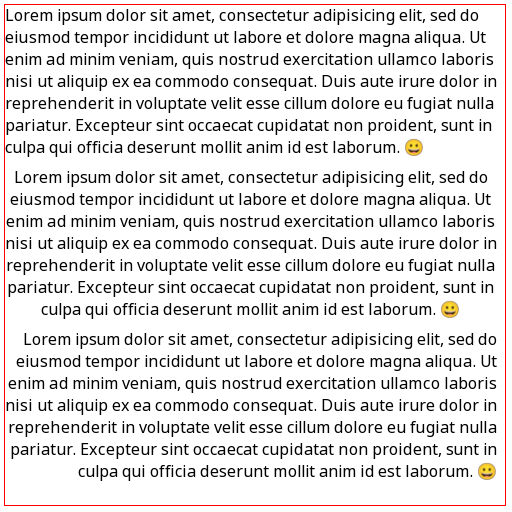
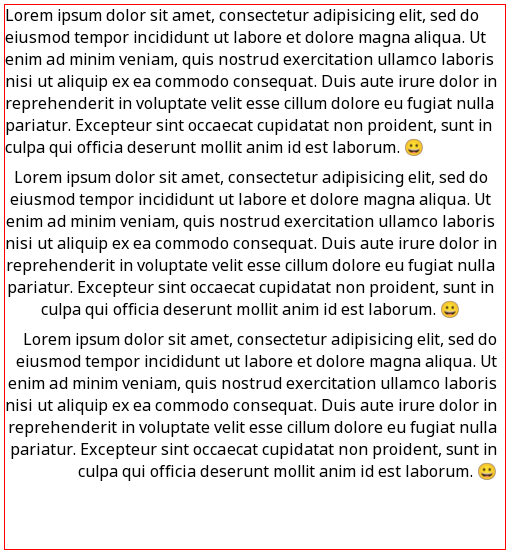
Some minor changes in TextLayout and LineWrap.

diff --git a/src/eepp/graphics/textlayout.cpp b/src/eepp/graphics/textlayout.cpp
@@ -309,7 +309,7 @@ TextLayout::Cache TextLayout::layout( const StringType& string, Font* font,
 							sg.position = pen;
 							sg.advance = { advance, 0 };
 							sg.direction = (TextDirection)segment.direction;
-							sg.script = (LangScript)segment.script;
+							sg.script = (LangScript)props.script;
 							result.shapedGlyphs.emplace_back( std::move( sg ) );
 
 							pen.x += advance;
@@ -334,7 +334,7 @@ TextLayout::Cache TextLayout::layout( const StringType& string, Font* font,
 						sg.stringIndex = segment.offset + run.pos() + glyphInfo[i].cluster;
 						sg.advance = { currentGlyph.advance, 0 };
 						sg.direction = (TextDirection)segment.direction;
-						sg.script = (LangScript)segment.script;
+						sg.script = (LangScript)props.script;
 						sg.position.x = pen.x + ( glyphPos[i].x_offset / 64.f );
 						sg.position.y = pen.y - ( glyphPos[i].y_offset / 64.f );
 						result.shapedGlyphs.emplace_back( std::move( sg ) );
@@ -375,7 +375,7 @@ TextLayout::Cache TextLayout::layout( const StringType& string, Font* font,
 							sg.stringIndex = segment.offset + run.pos() + cluster;
 							sg.advance = { advance, 0 };
 							sg.direction = (TextDirection)segment.direction;
-							sg.script = (LangScript)segment.script;
+							sg.script = (LangScript)props.script;
 							sg.position = pen;
 							result.shapedGlyphs.emplace_back( std::move( sg ) );
 
@@ -388,19 +388,21 @@ TextLayout::Cache TextLayout::layout( const StringType& string, Font* font,
 						sg.font = currentRunFont;
 						sg.glyphIndex = glyphInfo[i].codepoint;
 						sg.stringIndex = segment.offset + run.pos() + glyphInfo[i].cluster;
-						sg.advance = { glyphPos[i].x_advance / 64.f, glyphPos[i].y_advance / 64.f };
+						sg.advance = {
+							Font::isEmojiCodePoint( ch )
+								? currentRunFont
+									  ->getGlyphByIndex( glyphInfo[i].codepoint, characterSize,
+														 bold, italic, outlineThickness,
+														 rFont->getPage( characterSize ) )
+									  .advance
+								: glyphPos[i].x_advance / 64.f,
+							glyphPos[i].y_advance / 64.f };
 						sg.direction = (TextDirection)segment.direction;
-						sg.script = (LangScript)segment.script;
+						sg.script = (LangScript)props.script;
 						sg.position.x = std::round( pen.x + ( glyphPos[i].x_offset / 64.f ) );
 						sg.position.y = std::round( pen.y - ( glyphPos[i].y_offset / 64.f ) );
 						result.shapedGlyphs.emplace_back( std::move( sg ) );
-						pen.x += Font::isEmojiCodePoint( ch )
-									 ? currentRunFont
-										   ->getGlyphByIndex( glyphInfo[i].codepoint, characterSize,
-															  bold, italic, outlineThickness,
-															  rFont->getPage( characterSize ) )
-										   .advance
-									 : sg.advance.x;
+						pen.x += sg.advance.x;
 						pen.y += sg.advance.y;
 					}
 				}

diff --git a/include/eepp/graphics/linewrap.hpp b/include/eepp/graphics/linewrap.hpp
@@ -25,18 +25,26 @@ class EE_API LineWrap {
 
 	static std::string fromLineWrapType( LineWrapType type );
 
-	static LineWrapInfo
-	computeLineBreaks( const String::View& string, const FontStyleConfig& fontStyle, Float maxWidth,
-					   LineWrapMode mode, bool keepIndentation, Uint32 tabWidth = 4,
-					   Float whiteSpaceWidth = 0.f /* 0 = should calculate it */,
-					   Uint32 textHints = TextHints::None, bool tabStops = false,
-					   Float initialXOffset = 0.f );
+	static bool isWrapChar( String::StringBaseType ch );
 
 	static LineWrapInfo computeLineBreaks(
 		const String::View& string, Font* font, Uint32 characterSize, Float maxWidth,
 		LineWrapMode mode, Uint32 fontStyle, Float outlineThickness, bool keepIndentation,
 		Uint32 tabWidth = 4, Float whiteSpaceWidth = 0.f /* 0 = should calculate it */,
 		Uint32 textHints = TextHints::None, bool tabStops = false, Float initialXOffset = 0.f );
+
+	static LineWrapInfo computeLineBreaks(
+		const String& string, Font* font, Uint32 characterSize, Float maxWidth, LineWrapMode mode,
+		Uint32 fontStyle, Float outlineThickness, bool keepIndentation, Uint32 tabWidth = 4,
+		Float whiteSpaceWidth = 0.f /* 0 = should calculate it */,
+		Uint32 textHints = TextHints::None, bool tabStops = false, Float initialXOffset = 0.f );
+
+	static LineWrapInfo
+	computeLineBreaks( const String::View& string, const FontStyleConfig& fontStyle, Float maxWidth,
+					   LineWrapMode mode, bool keepIndentation, Uint32 tabWidth = 4,
+					   Float whiteSpaceWidth = 0.f /* 0 = should calculate it */,
+					   Uint32 textHints = TextHints::None, bool tabStops = false,
+					   Float initialXOffset = 0.f );
 
 	static LineWrapInfo computeLineBreaks( const String& string, const FontStyleConfig& fontStyle,
 										   Float maxWidth, LineWrapMode mode, bool keepIndentation,

diff --git a/src/eepp/graphics/linewrap.cpp b/src/eepp/graphics/linewrap.cpp
@@ -128,7 +128,7 @@ LineWrapInfo LineWrap::computeLineBreaks( const String::View& string, Font* font
 				xoffset = w + info.paddingStart;
 			}
 			lastSpace = 0;
-		} else if ( curChar == ' ' || curChar == '.' || curChar == '-' || curChar == ',' ) {
+		} else if ( isWrapChar( curChar ) ) {
 			lastSpace = idx;
 			lastWidth = xoffset;
 		}
@@ -137,6 +137,22 @@ LineWrapInfo LineWrap::computeLineBreaks( const String::View& string, Font* font
 	}
 
 	return info;
+}
+
+bool LineWrap::isWrapChar( String::StringBaseType ch ) {
+	return ch == ' ' || ch == '.' || ch == '-' || ch == ',';
+}
+
+LineWrapInfo LineWrap::computeLineBreaks( const String& string, Font* font, Uint32 characterSize,
+										  Float maxWidth, LineWrapMode mode, Uint32 fontStyle,
+										  Float outlineThickness, bool keepIndentation,
+										  Uint32 tabWidth,
+										  Float whiteSpaceWidth /* 0 = should calculate it */,
+										  Uint32 textDrawHints, bool tabStops,
+										  Float initialXOffset ) {
+	return computeLineBreaks( string.view(), font, characterSize, maxWidth, mode, fontStyle,
+							  outlineThickness, keepIndentation, tabWidth, whiteSpaceWidth,
+							  textDrawHints, tabStops, initialXOffset );
 }
 
 LineWrapInfo LineWrap::computeLineBreaks( const String::View& string,

diff --git a/src/tests/unit_tests/fontrendering.cpp b/src/tests/unit_tests/fontrendering.cpp
@@ -834,7 +834,7 @@ UTEST( FontRendering, TextWrap ) {
 
 	const auto runTest = [&]() {
 		UIApplication app(
-			WindowSettings( 512, 512, "eepp - Text Wrap", WindowStyle::Default,
+			WindowSettings( 512, 555, "eepp - Text Wrap", WindowStyle::Default,
 							WindowBackend::Default, 32, {}, 1, false, true ),
 			UIApplication::Settings( Sys::getProcessPath() + ".." + FileSystem::getOSSlash(), 1 ) );
 		FileSystem::changeWorkingDirectory( Sys::getProcessPath() );
@@ -843,10 +843,10 @@ UTEST( FontRendering, TextWrap ) {
 		Vector2f pos{ 5, 5 };
 		Primitives p;
 		p.setColor( Color::Red );
-		p.drawRectangle( Rectf( pos - 1.f, { 1, 501 } ) );
+		p.drawRectangle( Rectf( pos - 1.f, { 1, 546 } ) );
 		p.drawRectangle( Rectf( pos - 1.f, { 501, 1 } ) );
-		p.drawRectangle( Rectf( { pos.x - 1.f, 500 + pos.y }, { 502, 1 } ) );
-		p.drawRectangle( Rectf( { 500 + pos.x, pos.y - 1.f }, { 1, 501 } ) );
+		p.drawRectangle( Rectf( { pos.x - 1.f, 544 + pos.y }, { 502, 1 } ) );
+		p.drawRectangle( Rectf( { 500 + pos.x, pos.y - 1.f }, { 1, 546 } ) );
 
 		Text text;
 		text.setFont( app.getUI()->getUIThemeManager()->getDefaultFont() );

diff --git a/include/eepp/graphics/textlayout.hpp b/include/eepp/graphics/textlayout.hpp
@@ -1,6 +1,7 @@
 #pragma once
 
 #include <eepp/core/string.hpp>
+#include <eepp/graphics/linewrap.hpp>
 #include <eepp/graphics/shapedglyph.hpp>
 #include <eepp/math/size.hpp>
 
